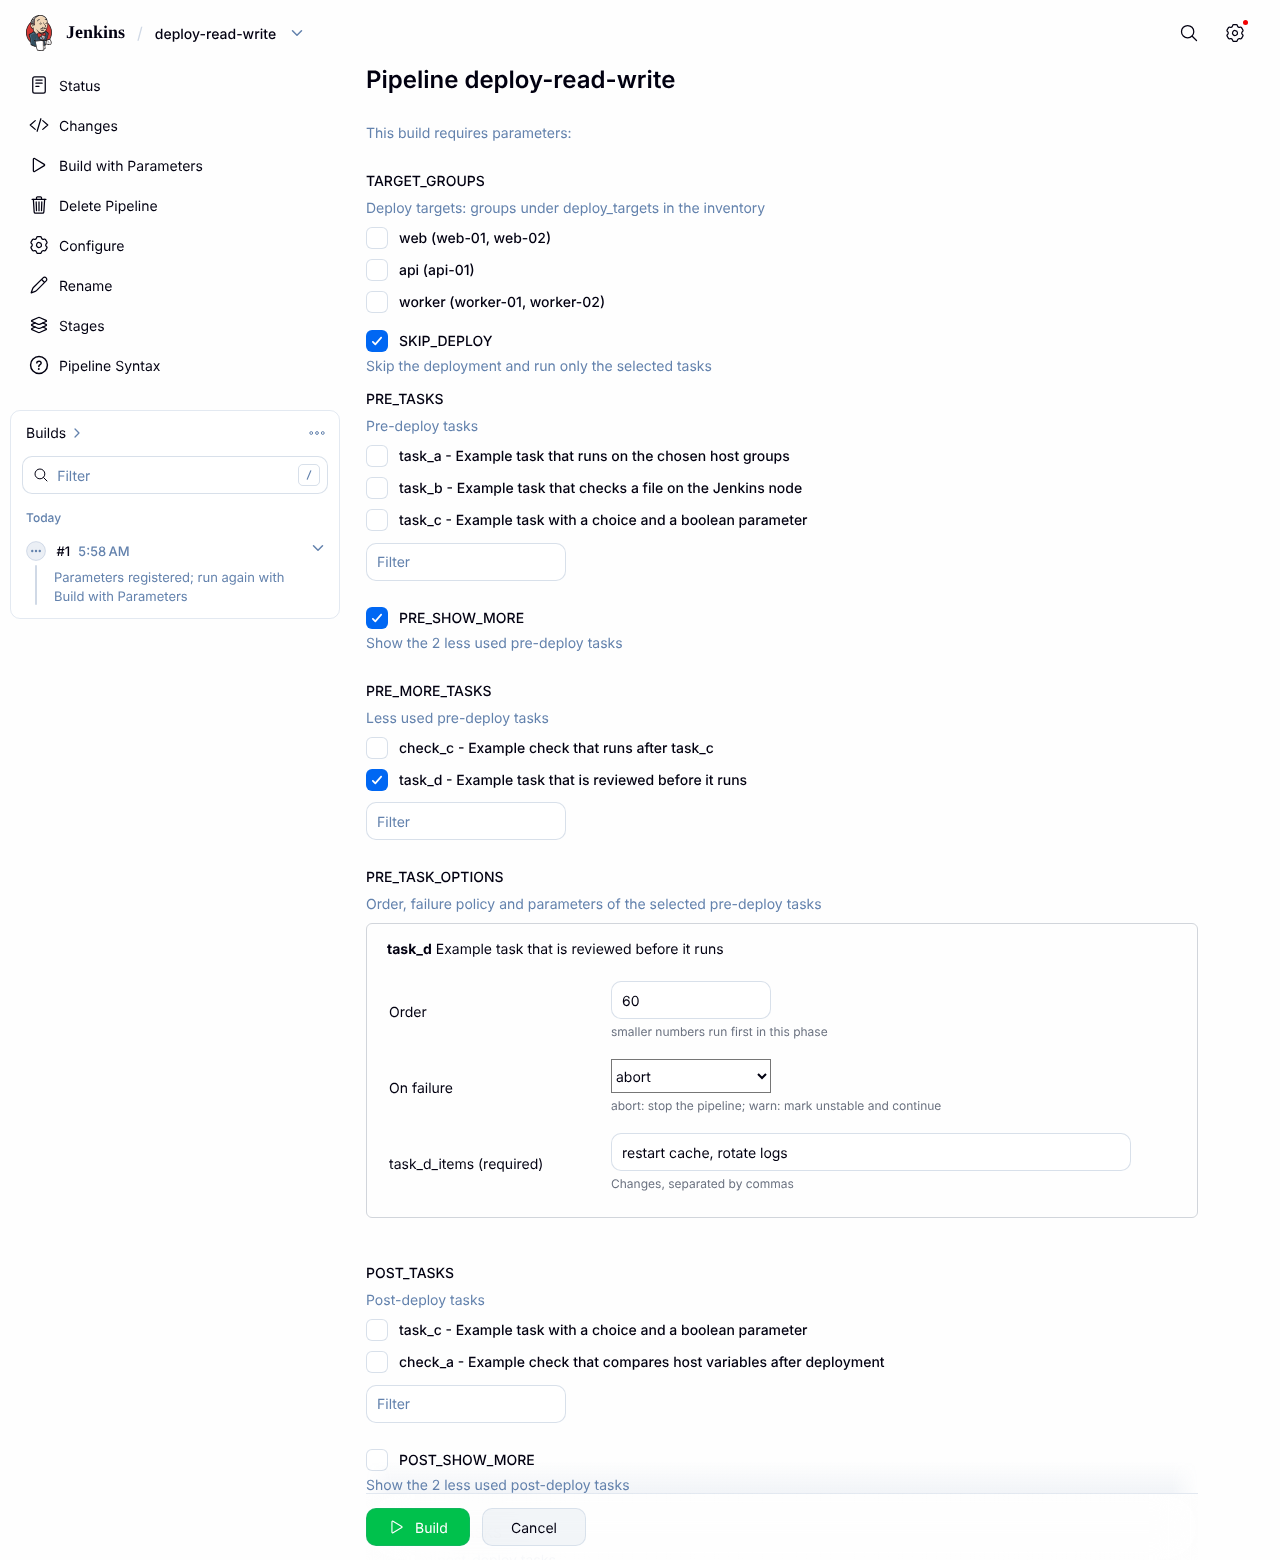
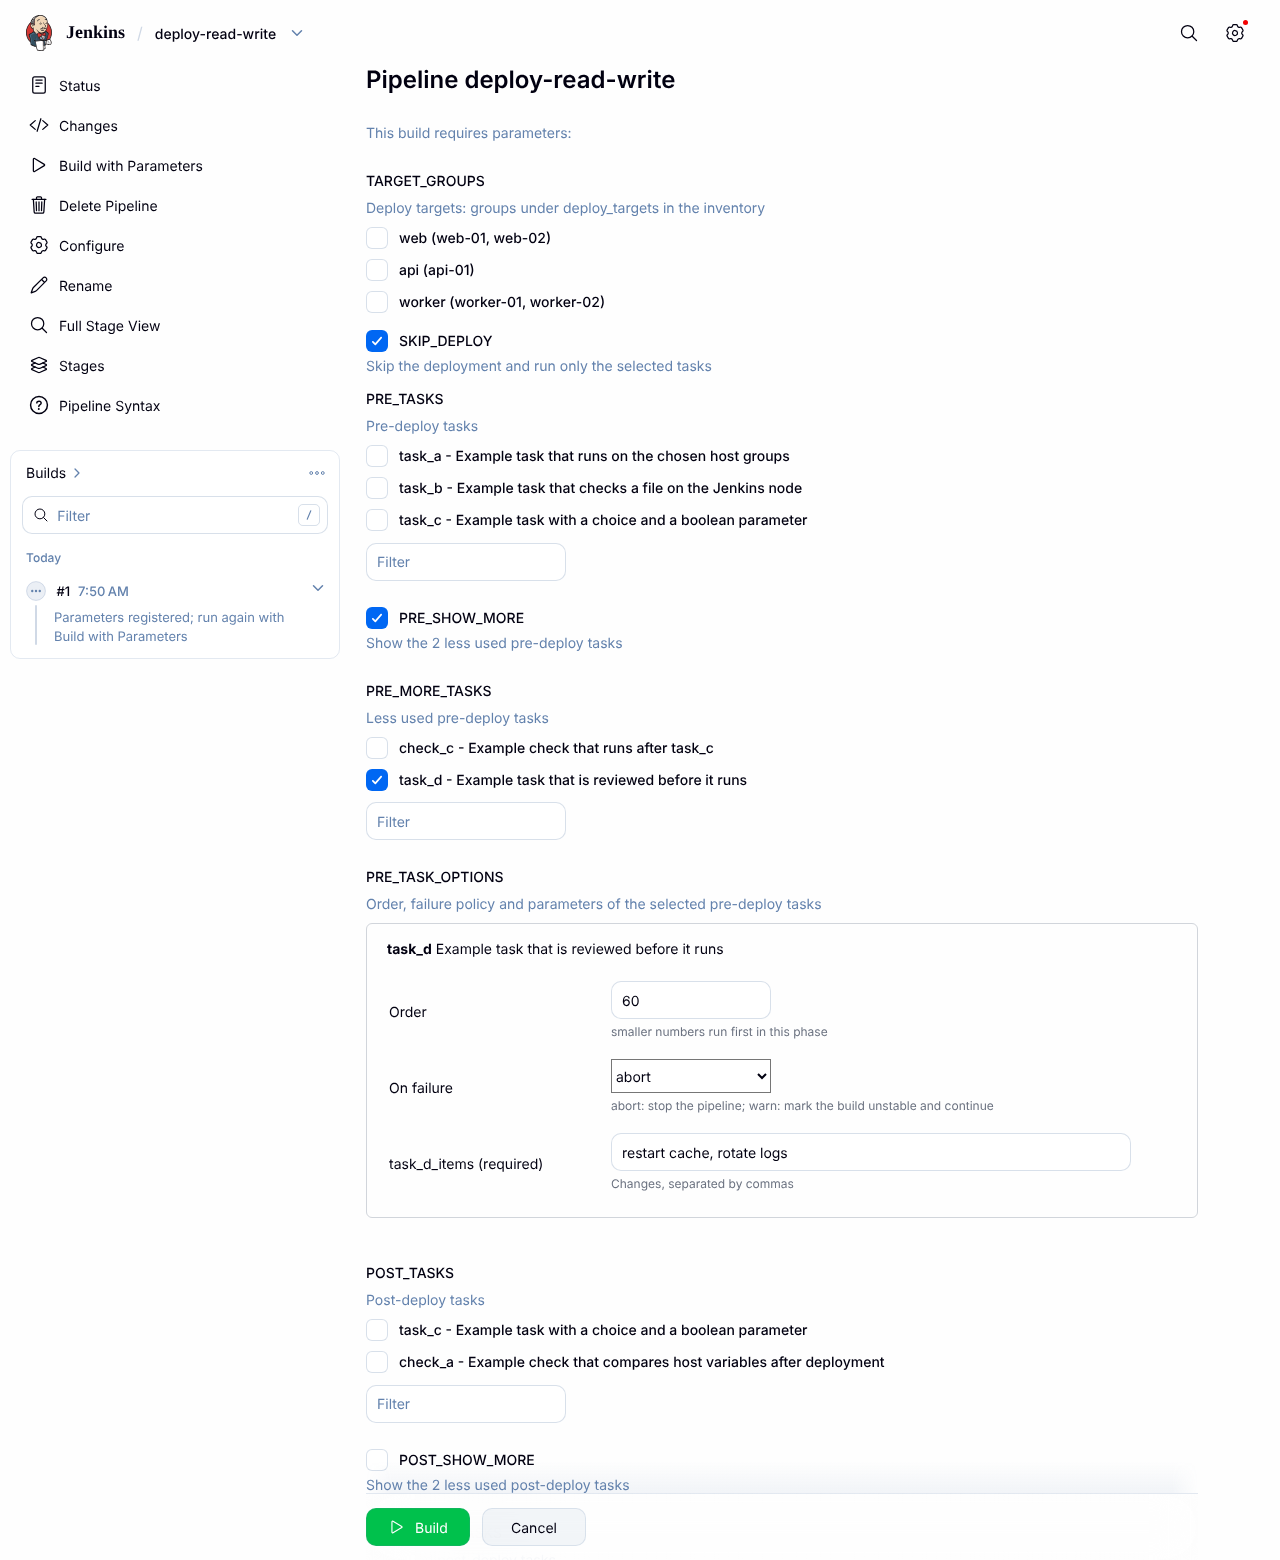
Show the review in the Stage View popup; fix the executor test
The screenshots lead with the Stage View popup, which keeps the review
file's line breaks; the Paused for Input and Stages prompt shots are
gone. The abort-after-confirmation test gives the executors back before
it waits for the build, whose Report stage needs one.

Claude-Session: https://claude.ai/code/session_01HQoGZjYvnbh8G5vUGUSDBt

Changed region(s): [[0.0, 0.1846, 0.2188, 0.4308], [0.2188, 0.3077, 0.25, 0.3385]]

diff --git a/jenkins-ansible-deploy/tests/test_review.py b/jenkins-ansible-deploy/tests/test_review.py
@@ -71,14 +71,18 @@ def test_aborted_review_runs_nothing_and_aborts_the_build(jenkins, waiting):
 
 @pytest.fixture
 def no_executors(jenkins):
-    """Take every executor away for one test, and check they are back afterwards."""
+    """Take every executor away for one test; yields a function that gives them back, which teardown calls anyway."""
     executors = jenkins.run_script('print(Jenkins.get().numExecutors)').strip()
-    try:
-        jenkins.run_script('Jenkins.get().setNumExecutors(0)')
-        yield
-    finally:
+
+    def restore():
         jenkins.run_script(f'Jenkins.get().setNumExecutors({executors})')
         assert jenkins.run_script('print(Jenkins.get().numExecutors)').strip() == executors
+
+    try:
+        jenkins.run_script('Jenkins.get().setNumExecutors(0)')
+        yield restore
+    finally:
+        restore()
 
 
 def wait_for_queued(jenkins, job, timeout_seconds=60):
@@ -97,7 +101,7 @@ def test_build_aborted_after_confirmation_before_the_run_reports_the_task_aborte
     wait_for_queued(jenkins, job)                                   # the confirmed run waits for an executor
     jenkins.stop_build(job, number)
     jenkins.wait_for_console(job, number, 'Aborted by')
-
+    no_executors()                                                  # the Report stage needs one to finish the build
 
     assert jenkins.wait_for_build(job, number) == 'ABORTED'
     console = jenkins.console(job, number)
